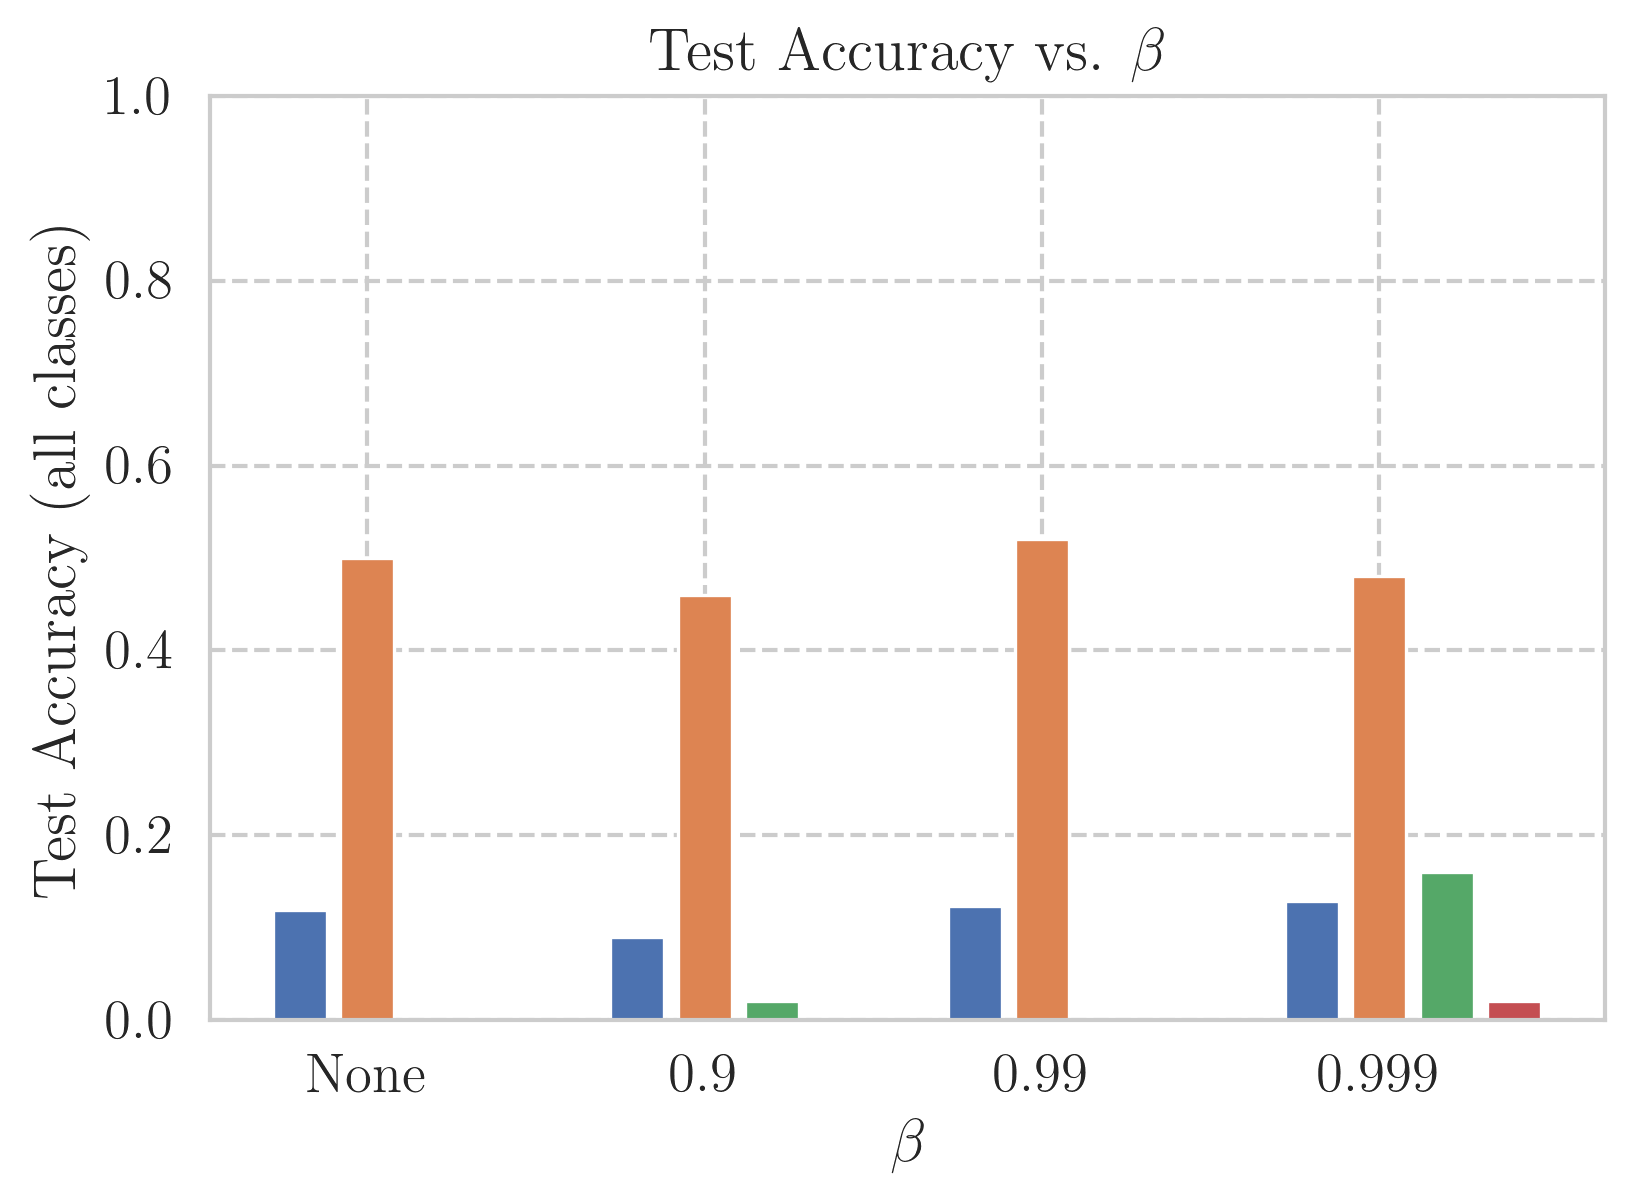
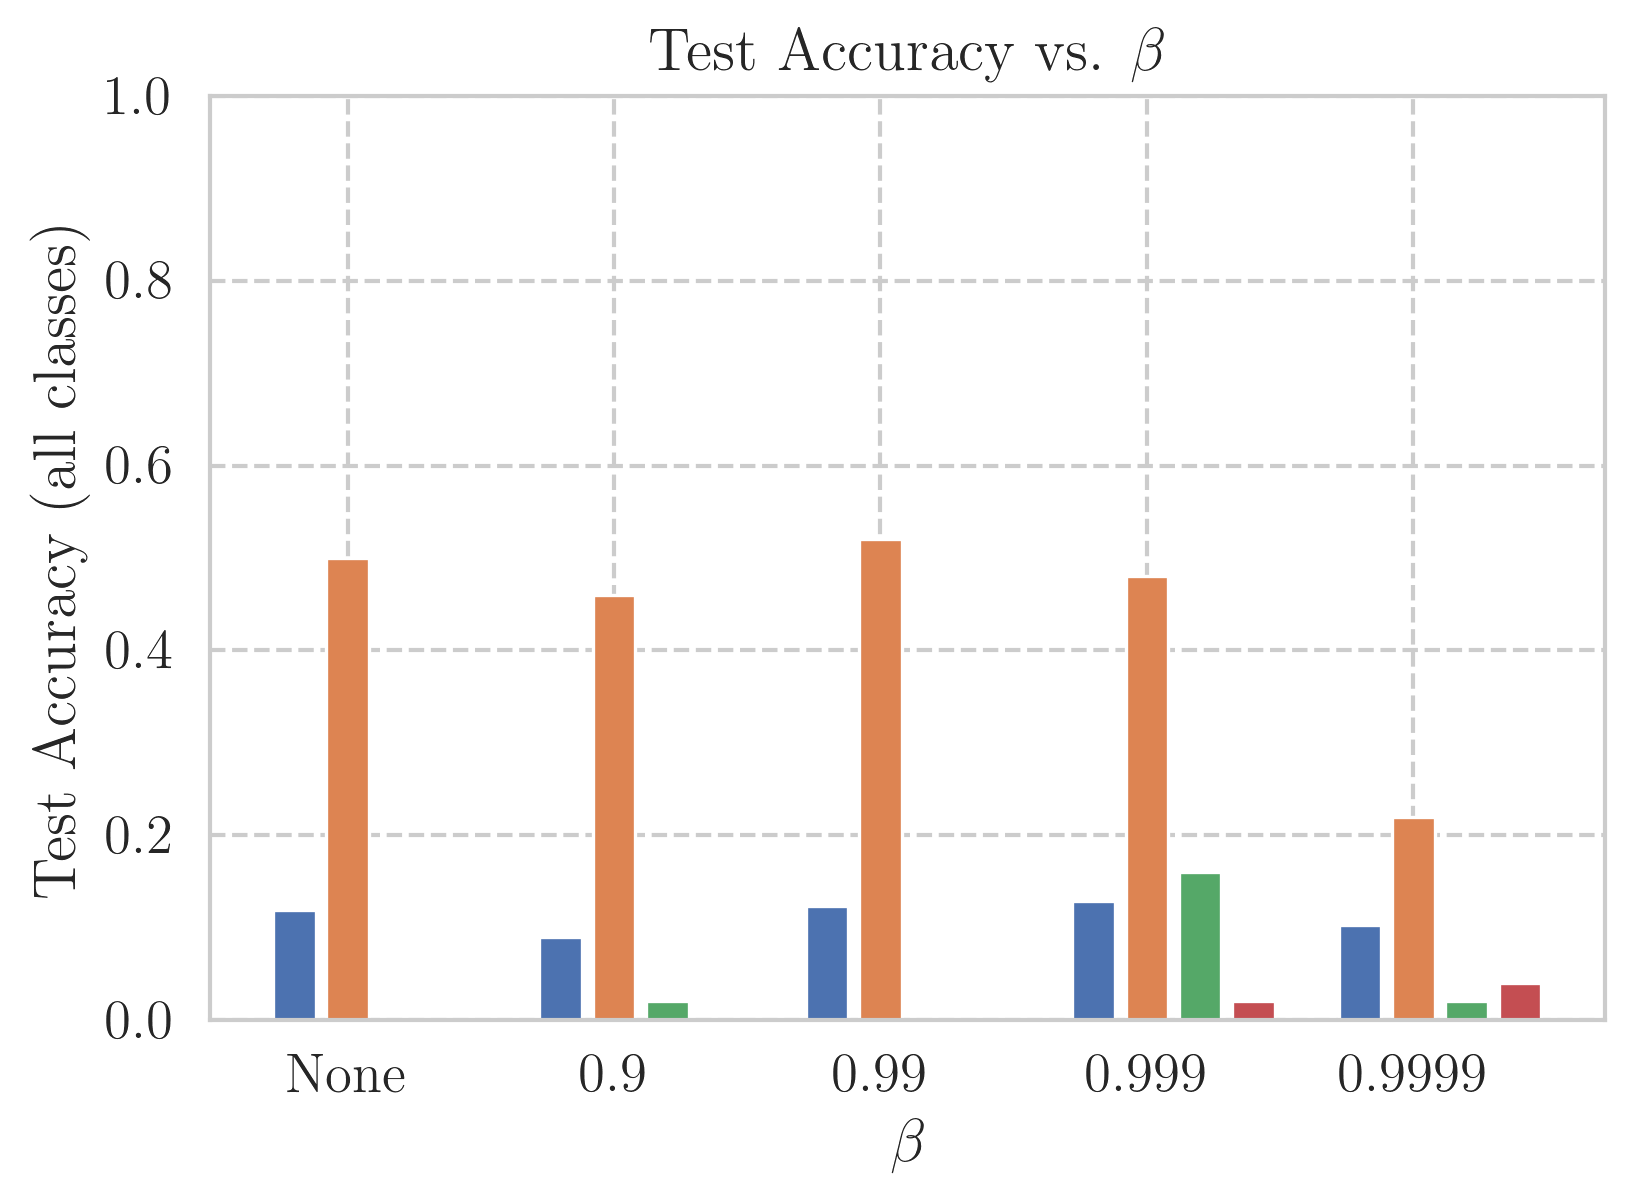
Updating CBL results for TinyImagenet

diff --git a/src/CBL/run.py b/src/CBL/run.py
@@ -318,7 +318,7 @@ def plot(*, dataset):
     assert dataset in ('cifar10', 'cifar100', 'tinyimagenet')
     betas = [None, 0.9, 0.99, 0.999, 0.9999]
     best_beta = {'cifar10': 0.99, 'cifar100': 0.9, 'tinyimagenet': 0.999}[dataset]
-    best_idx = {'cifar10': 2, 'cifar100': 1, 'tinyimagenet': 2}[dataset]
+    best_idx = {'cifar10': 2, 'cifar100': 1, 'tinyimagenet': 3}[dataset]
 
 
 
